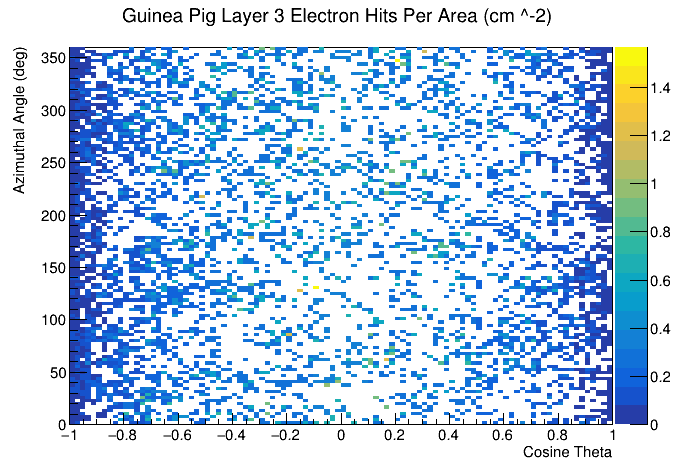
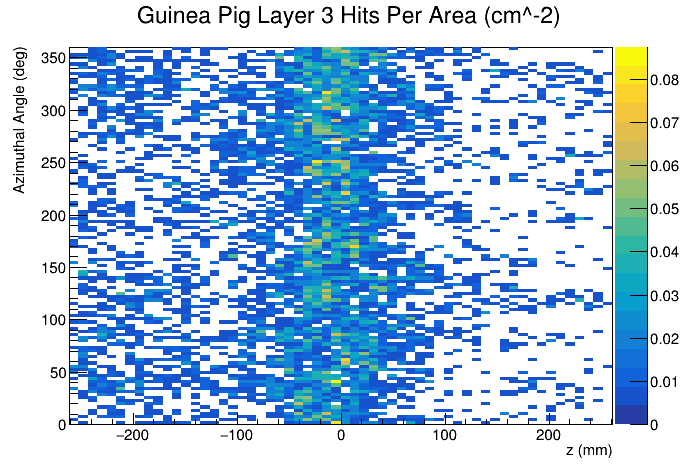
changed axes of hit rate plots from cos theta to z

diff --git a/python/hit_rate_mapper.py b/python/hit_rate_mapper.py
@@ -58,12 +58,14 @@ def z_coord(hit):
             return z
     raise ValueError(f"Not close enough to any of the disks {true_z}")
 
-# hit_map = {coord: {cos: {azimuthal: {particle: [0] * 100 \
-            # for particle in particles.values()} for azimuthal in range(0, 360, 3)} \
-                # for cos in range(-100, 100, 2)} for coord in layer_radii + disk_z}
+hit_map = {coord: {z: {azimuthal: {particle: [0] * 100 for particle in particles.values()} \
+                for azimuthal in range(0, 360, 3)} \
+                    for z in range(-z_ranges[coord][0], z_ranges[coord][0], z_ranges[coord][1])} \
+                        for coord in layer_radii}
 
-hit_map = {coord: {z: {azimuthal: [0] * 100 for azimuthal in range(0, 360, 3)} \
-                   for z in range(-z_ranges[coord][0], z_ranges[coord][0], z_ranges[coord][1])} for coord in layer_radii}
+# hit_map = {coord: {z: {azimuthal: [0] * 100 for azimuthal in range(0, 360, 3)} \
+#                 for z in range(-z_ranges[coord][0], z_ranges[coord][0], z_ranges[coord][1])} \
+#                     for coord in layer_radii}
 
 for i in range(100):
     event = events[i]
@@ -82,40 +84,35 @@ for i in range(100):
             if hit.getEDep() < 0.000002:
                 continue
 
-            # mc = hit.getMCParticle()
-            # pdg = mc.getPDG()
+            mc = hit.getMCParticle()
+            pdg = mc.getPDG()
 
-            # if pdg in particles:
-            #     particle = particles[pdg]
-            # else:
-            #     continue
+            if pdg in particles:
+                particle = particles[pdg]
+            else:
+                continue
 
-            # cos_th = math.cos(theta(hit.getPosition().x, hit.getPosition().y, hit.getPosition().z))
             ph = phi(hit.getPosition().x, hit.getPosition().y) * (180 / math.pi)
             z = hit.getPosition().z
             if abs(z) > z_ranges[coord][0]:
                 continue
-            # hit_map[coord][int(((100 * cos_th) // 2) * 2)][int((ph // 3) * 3)][particle][i] += 1
-            hit_map[coord][int((z // z_ranges[coord][1]) * z_ranges[coord][1])][int((ph // 3) * 3)][i] += 1
+            hit_map[coord][int((z // z_ranges[coord][1]) * z_ranges[coord][1])][int((ph // 3) * 3)][particle][i] += 1
+            # hit_map[coord][int((z // z_ranges[coord][1]) * z_ranges[coord][1])][int((ph // 3) * 3)][i] += 1
 
 for layer_index in range(5):
-    # for particle in particles.values():
+    for particle in particles.values():
 
         r = true_radii[layer_index]
         z_range = z_ranges[layer_radii[layer_index]]
+        area = z_range[1] * r * math.pi/60
         hist = ROOT.TH2F("hit map", f"Guinea Pig Layer {layer_index + 1} Hits", (2 * z_range[0]) // z_range[1], -z_range[0], z_range[0], 120, 0, 360)
         # hist.SetTitle(f"Guinea Pig Layer {layer_index + 1} {particle.capitalize()} Hits Per Area (cm ^-2);Cosine Theta;Azimuthal Angle (deg)")
         hist.SetTitle(f"Guinea Pig Layer {layer_index + 1} Hits Per Area (cm^-2);z (mm); Azimuthal Angle (deg)")
 
         for z in range(-z_range[0], z_range[0], z_range[1]):
-            area = z_range[1] * r * math.pi/60
-            # delta_angle = math.pi/60
-            # area_num = (math.sin(delta_angle) * delta_angle) * (r ** 2)
-            # area_den = math.sin(polar) ** 2
-            # area = area_num / area_den
             for azimuthal in range(0, 360, 3):
-                # hits = np.mean(hit_map[layer_radii[layer_index]][cos_th][azimuthal][particle])
-                hits = np.mean(hit_map[layer_radii[layer_index]][z][azimuthal])
+                hits = np.mean(hit_map[layer_radii[layer_index]][z][azimuthal][particle])
+                # hits = np.mean(hit_map[layer_radii[layer_index]][z][azimuthal])
                 hist.SetBinContent(((z + z_range[0]) // z_range[1]) + 1, (azimuthal // 3) + 1, hits / area)
 
         hist.SetStats(0)
@@ -123,5 +120,5 @@ for layer_index in range(5):
         canvas.SetRightMargin(0.12)
         hist.Draw("colz")
         canvas.Update()
-        # canvas.SaveAs(f"../plots/hit_rates/{particle}/gp_layer{layer_index + 1}_{particle}_hit_rate.png")
-        canvas.SaveAs(f"../plots/hit_rates/per_area/gp_layer{layer_index + 1}_hit_rate.png")
+        canvas.SaveAs(f"../plots/hit_rates/{particle}/gp_layer{layer_index + 1}_{particle}_hit_rate.png")
+        # canvas.SaveAs(f"../plots/hit_rates/per_area/gp_layer{layer_index + 1}_hit_rate.png")
